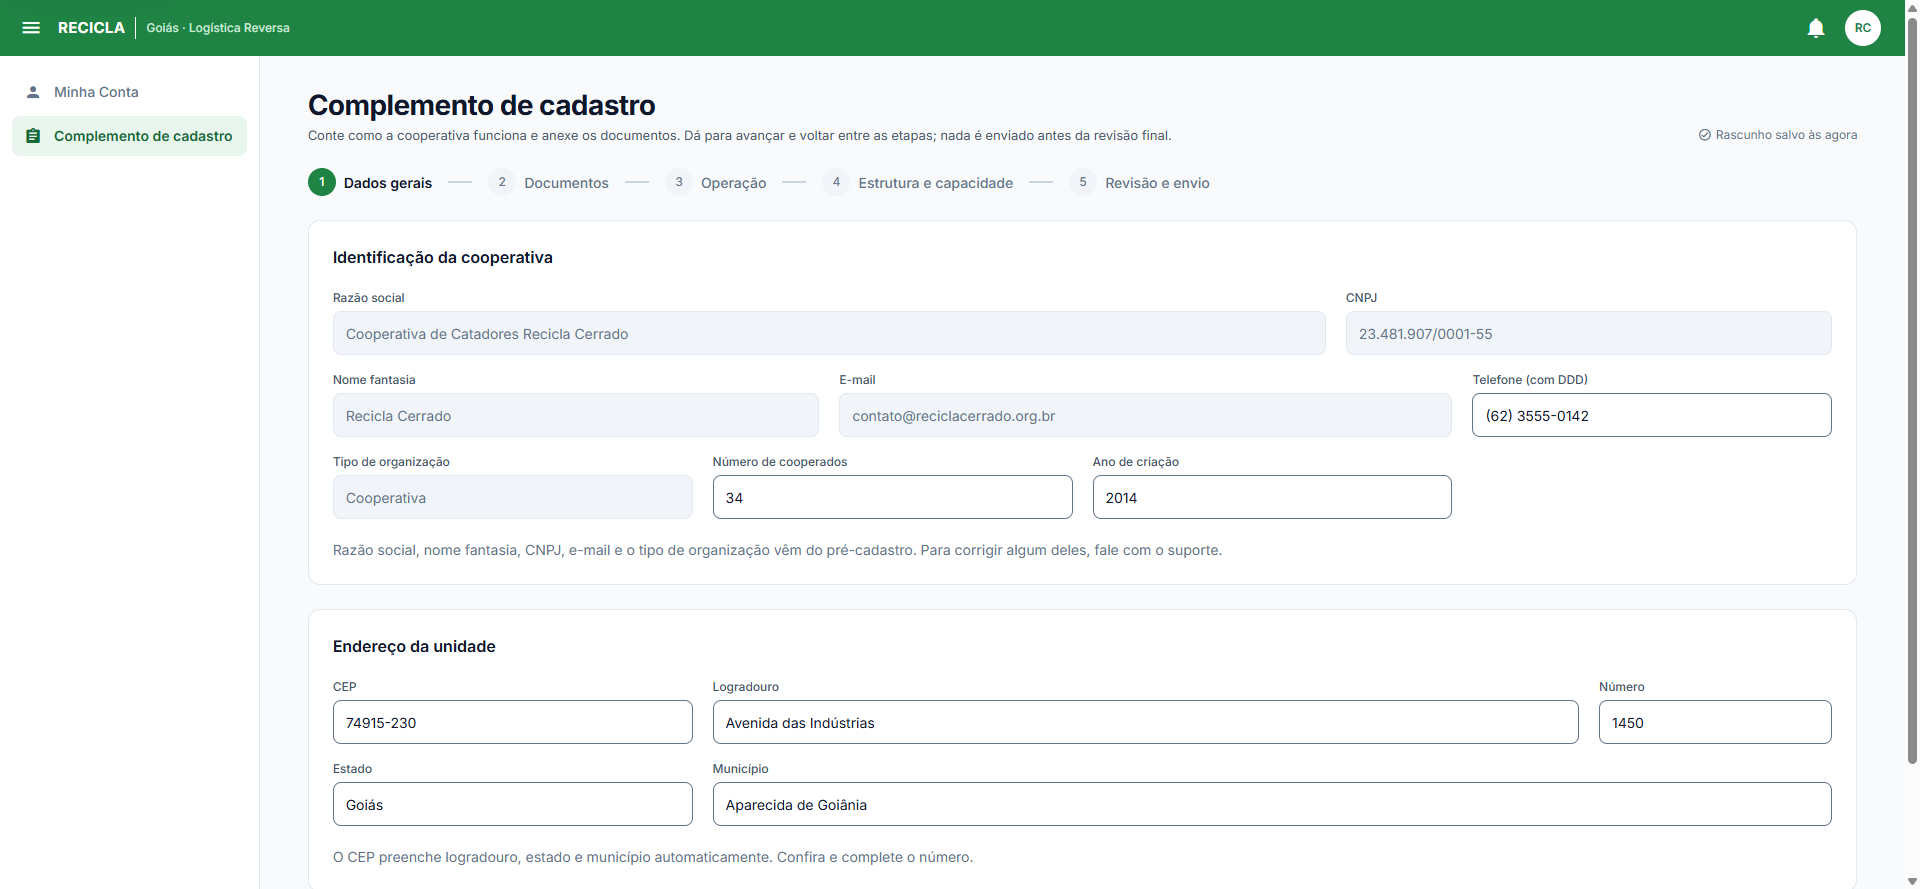
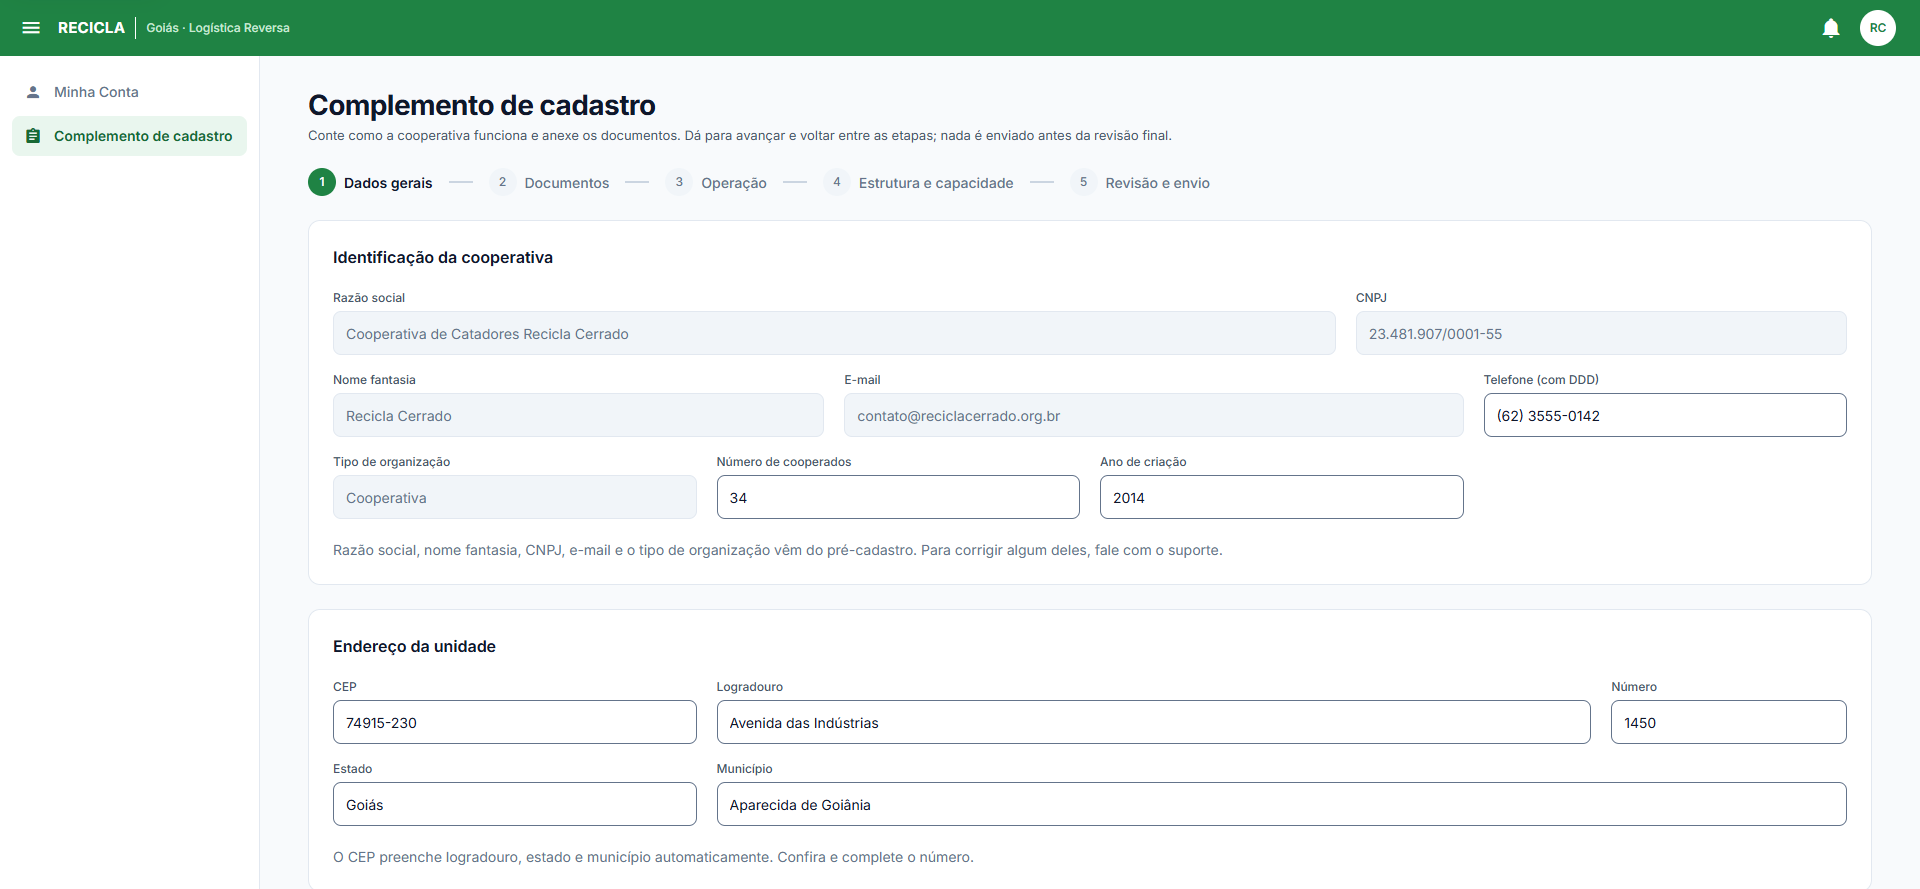
fix(operador): remove o rascunho provisório e foca o roteiro no fluxo
Decisão do Bruno em 31/08: a proposta não tem salvamento provisório.

- Store: só o envio é persistido (a conta "em análise" sobrevive à recarga;
  o preenchimento em andamento não). Sai o selo "Rascunho salvo às HH:MM".
- Roteiro reescrito focado no fluxo proposto: saem os testes de menu e de
  rascunho; ficam etapas, condicionais, revisão, envio e estado da conta.
- Slide do fluxograma e e-mail de ativação sem menção a salvar/retomar
  (Figma ajustado e PNG reexportado).
- Prints das etapas recapturados sem o selo de rascunho.

diff --git a/public/roteiro-complemento.html b/public/roteiro-complemento.html
@@ -64,7 +64,7 @@
 <header class="topo"><div class="mx">
   <div class="eyebrow">Recicla Goiás · Operador Logístico · Setembro 2026</div>
   <h1>Roteiro de testes: complemento de cadastro</h1>
-  <p>A segunda parte do registro do operador logístico: o pré-cadastro que já existe continua igual, e o complemento em cinco etapas nasce dentro do sistema. Siga com o protótipo aberto ao lado. A história completa da proposta está na <a href="https://reciclagoias.vercel.app/apresentacao-operador">apresentação</a>.</p>
+  <p>O fluxo proposto para o cadastro do operador logístico: o pré-cadastro que já existe continua igual, e o complemento em cinco etapas nasce dentro do sistema. Este roteiro cobre só o fluxo novo. A história completa está na <a href="https://reciclagoias.vercel.app/apresentacao-operador">apresentação</a>.</p>
 </div></header>
 <main>
 
@@ -79,38 +79,18 @@
     <b>Preparação</b>
     <ul>
       <li>Abra <a href="https://reciclagoias.vercel.app/entrar" target="_blank" rel="noopener">reciclagoias.vercel.app/entrar</a> e escolha <b>Operador Logístico</b>. Não há senha: é o login de navegação do protótipo.</li>
-      <li>O protótipo simula a conta <b>recém-ativada pelo e-mail</b>: ela nasce no estado "em complementação", direto no formulário.</li>
+      <li>O protótipo simula a conta <b>recém-ativada pelo e-mail</b>: ela cai direto no complemento de cadastro, no meio do preenchimento.</li>
       <li>Todos os dados são de demonstração e o anexo é <b>simulado</b>: o clique na área de anexo adiciona um arquivo de exemplo.</li>
-      <li>O rascunho vive na aba: <kbd>F5</kbd> mantém tudo, fechar a aba zera. Para recomeçar no meio do teste, use uma aba anônima ou termine o envio e clique em <b>Reiniciar demonstração</b> no final.</li>
+      <li>Para recomeçar do zero, termine o envio e clique em <b>Reiniciar demonstração</b> na última tela.</li>
     </ul>
   </div>
-  <div class="fala">O que está sendo testado é <b>comportamento e regra</b>, não dado: o que fica travado, o que abre e fecha condicionado às respostas, o que o rascunho segura e o que a revisão conta.</div>
+  <div class="fala">O que está sendo testado é o <b>fluxo proposto</b>: o que fica travado, o que abre e fecha condicionado às respostas, o que a revisão conta e como o envio muda o estado da conta.</div>
 </div>
 
 <div class="bloco">
-  <h2><span class="num">1</span>A chegada</h2>
+  <h2><span class="num">1</span>Etapa 1 · Dados gerais</h2>
   <div class="teste">
-    <h3><input type="checkbox"> 1.1 · A conta em complementação</h3>
-    <ul class="passos"><li>Observe a tela que abre depois do login.</li></ul>
-    <div class="esper"><b>Esperado</b>
-      <label><input type="checkbox"> O menu lateral tem só <b>Minha Conta</b> e <b>Complemento de cadastro</b> (ativo). Não existe Dashboard: ele só nasce com a aprovação</label>
-      <label><input type="checkbox"> O título é <b>Complemento de cadastro</b>, com o stepper de 5 etapas logo abaixo</label>
-      <label><input type="checkbox"> O stepper é clicável: dá para visitar qualquer etapa e voltar</label>
-    </div>
-  </div>
-  <div class="teste">
-    <h3><input type="checkbox"> 1.2 · O rascunho</h3>
-    <ul class="passos"><li>Mude qualquer campo editável (o telefone, por exemplo).</li></ul>
-    <div class="esper"><b>Esperado</b>
-      <label><input type="checkbox"> No topo direito aparece <b>"Rascunho salvo às HH:MM"</b>, atualizando a cada mudança</label>
-    </div>
-  </div>
-</div>
-
-<div class="bloco">
-  <h2><span class="num">2</span>Etapa 1 · Dados gerais</h2>
-  <div class="teste">
-    <h3><input type="checkbox"> 2.1 · O que veio do pré-cadastro fica travado</h3>
+    <h3><input type="checkbox"> 1.1 · O que veio do pré-cadastro fica travado</h3>
     <ul class="passos"><li>Tente editar razão social, CNPJ, nome fantasia, e-mail e tipo de organização.</li></ul>
     <div class="esper"><b>Esperado</b>
       <label><input type="checkbox"> Os cinco campos têm fundo cinza e não aceitam edição</label>
@@ -119,7 +99,7 @@
     </div>
   </div>
   <div class="teste">
-    <h3><input type="checkbox"> 2.2 · O tipo de organização condiciona o formulário</h3>
+    <h3><input type="checkbox"> 1.2 · O tipo de organização condiciona o formulário</h3>
     <div class="esper"><b>Esperado</b>
       <label><input type="checkbox"> <b>Tipo de organização: Cooperativa</b> aparece travado, herdado do pré-cadastro</label>
       <label><input type="checkbox"> <b>Número de cooperados</b> existe porque é cooperativa; para uma empresa, o campo não existiria</label>
@@ -128,9 +108,9 @@
 </div>
 
 <div class="bloco">
-  <h2><span class="num">3</span>Etapa 2 · Documentos</h2>
+  <h2><span class="num">2</span>Etapa 2 · Documentos</h2>
   <div class="teste">
-    <h3><input type="checkbox"> 3.1 · Os três estados na mesma lista</h3>
+    <h3><input type="checkbox"> 2.1 · Os três estados na mesma lista</h3>
     <ul class="passos"><li>Percorra a lista de 11 documentos sem mexer em nada.</li></ul>
     <div class="esper"><b>Esperado</b>
       <label><input type="checkbox"> A maioria está <b>Sim + arquivo anexado</b>: clipe, nome do arquivo e a lixeira</label>
@@ -139,7 +119,7 @@
     </div>
   </div>
   <div class="teste">
-    <h3><input type="checkbox"> 3.2 · Anexar e remover</h3>
+    <h3><input type="checkbox"> 2.2 · Anexar e remover</h3>
     <ul class="passos">
       <li>Clique na área de anexo da ata.</li>
       <li>Depois remova o arquivo pela lixeira.</li>
@@ -151,7 +131,7 @@
     </div>
   </div>
   <div class="teste">
-    <h3><input type="checkbox"> 3.3 · A regra do Não</h3>
+    <h3><input type="checkbox"> 2.3 · A regra do Não</h3>
     <ul class="passos"><li>Num item com arquivo anexado, marque <b>Não</b> e depois volte para <b>Sim</b>.</li></ul>
     <div class="esper"><b>Esperado</b>
       <label><input type="checkbox"> Com Não, o arquivo some e entra o aviso de pendência</label>
@@ -162,9 +142,9 @@
 </div>
 
 <div class="bloco">
-  <h2><span class="num">4</span>Etapa 3 · Operação</h2>
+  <h2><span class="num">3</span>Etapa 3 · Operação</h2>
   <div class="teste">
-    <h3><input type="checkbox"> 4.1 · "Outro" sempre abre a descrição</h3>
+    <h3><input type="checkbox"> 3.1 · "Outro" sempre abre a descrição</h3>
     <ul class="passos">
       <li>Em beneficiamentos, desmarque <b>Outro serviço</b>.</li>
       <li>Marque de novo.</li>
@@ -176,7 +156,7 @@
     </div>
   </div>
   <div class="teste">
-    <h3><input type="checkbox"> 4.2 · Sim e Não que mudam a tela</h3>
+    <h3><input type="checkbox"> 3.2 · Sim e Não que mudam a tela</h3>
     <ul class="passos"><li>Em "coleta ou recebe resíduos de outros municípios?", responda <b>Não</b> e depois volte para <b>Sim</b>.</li></ul>
     <div class="esper"><b>Esperado</b>
       <label><input type="checkbox"> Com Não, o campo "Quais municípios?" some; com Sim, volta preenchido</label>
@@ -185,9 +165,9 @@
 </div>
 
 <div class="bloco">
-  <h2><span class="num">5</span>Etapa 4 · Estrutura e capacidade</h2>
+  <h2><span class="num">4</span>Etapa 4 · Estrutura e capacidade</h2>
   <div class="teste">
-    <h3><input type="checkbox"> 5.1 · O bloco do vidro</h3>
+    <h3><input type="checkbox"> 4.1 · O bloco do vidro</h3>
     <ul class="passos"><li>Em "beneficiamento do vidro", responda <b>Não</b> e depois volte para <b>Sim</b>.</li></ul>
     <div class="esper"><b>Esperado</b>
       <label><input type="checkbox"> Com Não, destinação e capacidade do vidro somem: pergunta que não se aplica não aparece</label>
@@ -197,21 +177,9 @@
 </div>
 
 <div class="bloco">
-  <h2><span class="num">6</span>O rascunho aguenta recarga</h2>
+  <h2><span class="num">5</span>Etapa 5 · Revisão e envio</h2>
   <div class="teste">
-    <h3><input type="checkbox"> 6.1 · F5 no meio do caminho</h3>
-    <ul class="passos"><li>No meio da etapa 3 ou 4, com mudanças feitas, pressione <kbd>F5</kbd>.</li></ul>
-    <div class="esper"><b>Esperado</b>
-      <label><input type="checkbox"> A página volta <b>na mesma etapa</b>, com tudo o que você mudou preservado</label>
-    </div>
-  </div>
-  <div class="fala">No sistema real o rascunho é por conta, no servidor: a cooperativa pode parar para caçar um documento e continuar outro dia, de outro computador. No protótipo ele vive na aba.</div>
-</div>
-
-<div class="bloco">
-  <h2><span class="num">7</span>Etapa 5 · Revisão e envio</h2>
-  <div class="teste">
-    <h3><input type="checkbox"> 7.1 · O resumo é calculado, não decorado</h3>
+    <h3><input type="checkbox"> 5.1 · O resumo é calculado, não decorado</h3>
     <ul class="passos"><li>Compare a linha de Documentos com o que você deixou na etapa 2.</li></ul>
     <div class="esper"><b>Esperado</b>
       <label><input type="checkbox"> A contagem de anexados bate com o estado real, e cada pendência é <b>nomeada</b></label>
@@ -220,7 +188,7 @@
     </div>
   </div>
   <div class="teste">
-    <h3><input type="checkbox"> 7.2 · A declaração trava o envio</h3>
+    <h3><input type="checkbox"> 5.2 · A declaração trava o envio</h3>
     <ul class="passos"><li>Observe o botão <b>Enviar cadastro</b>, marque a declaração e observe de novo.</li></ul>
     <div class="esper"><b>Esperado</b>
       <label><input type="checkbox"> Sem a declaração, o botão fica desabilitado</label>
@@ -231,24 +199,24 @@
 </div>
 
 <div class="bloco">
-  <h2><span class="num">8</span>Envio, análise e leitura</h2>
+  <h2><span class="num">6</span>Envio e análise</h2>
   <div class="teste">
-    <h3><input type="checkbox"> 8.1 · O envio</h3>
+    <h3><input type="checkbox"> 6.1 · O envio</h3>
     <ul class="passos"><li>Clique em <b>Enviar cadastro</b>.</li></ul>
     <div class="esper"><b>Esperado</b>
       <label><input type="checkbox"> Confirmação com protocolo e a data e hora reais do envio</label>
     </div>
   </div>
   <div class="teste">
-    <h3><input type="checkbox"> 8.2 · O lobby de análise</h3>
+    <h3><input type="checkbox"> 6.2 · A conta muda de estado</h3>
     <ul class="passos"><li>Clique em <b>Acompanhar análise</b> e depois pressione <kbd>F5</kbd>.</li></ul>
     <div class="esper"><b>Esperado</b>
       <label><input type="checkbox"> A tela "Cadastro em análise", com chip, protocolo e data</label>
-      <label><input type="checkbox"> Depois do F5, o lobby continua: a conta ficou "em análise", não volta ao formulário</label>
+      <label><input type="checkbox"> Depois do F5, o lobby continua: a conta ficou "em análise" e não volta ao formulário</label>
     </div>
   </div>
   <div class="teste">
-    <h3><input type="checkbox"> 8.3 · A cópia de leitura</h3>
+    <h3><input type="checkbox"> 6.3 · A cópia de leitura</h3>
     <ul class="passos"><li>Clique em <b>Ver o que foi enviado</b>.</li></ul>
     <div class="esper"><b>Esperado</b>
       <label><input type="checkbox"> A revisão abre em modo leitura: sem Editar e sem a declaração</label>
@@ -256,7 +224,7 @@
     </div>
   </div>
   <div class="teste">
-    <h3><input type="checkbox"> 8.4 · Reiniciar a demonstração</h3>
+    <h3><input type="checkbox"> 6.4 · Reiniciar a demonstração</h3>
     <ul class="passos"><li>No lobby, clique em <b>Reiniciar demonstração</b>.</li></ul>
     <div class="esper"><b>Esperado</b>
       <label><input type="checkbox"> Tudo volta ao estado inicial, pronto para a próxima pessoa testar</label>
@@ -266,7 +234,7 @@
 </div>
 
 <div class="bloco">
-  <h2><span class="num">9</span>O que ainda não está aqui</h2>
+  <h2><span class="num">7</span>O que ainda não está aqui</h2>
   <div class="nota"><b>Fora desta fatia, de propósito</b>Máscaras e validações campo a campo, estados de erro no envio, versão mobile, upload real de arquivos e a integração com o pré-cadastro de produção. O desenho de referência completo está na seção "Setembro 2026 · Recicla Goiás · Complemento de Cadastro do Operador Logístico" do Figma.</div>
 </div>
 

diff --git a/src/stores/complemento.ts b/src/stores/complemento.ts
@@ -3,15 +3,14 @@
  *
  * As regras de UX moram aqui, não nos componentes (mesma filosofia da store
  * `explorador`): responder "Não" a um documento apaga o anexo, "outro" fora da
- * lista limpa a descrição, o envio só libera com a declaração aceita, e o
- * rascunho é persistido a cada mudança — é a história do "salvar rascunho"
- * proposta à SIC, demonstrada de verdade no protótipo.
+ * lista limpa a descrição e o envio só libera com a declaração aceita.
  *
- * Persistência em `sessionStorage` (mesma decisão da sessão: por aba, some ao
- * fechar). No sistema real o rascunho é por conta, no servidor.
+ * Persistência: só o ENVIO é gravado (`sessionStorage`, por aba) — a conta
+ * "em análise" sobrevive à recarga, o preenchimento em andamento não. Decisão
+ * de 31/08: a proposta não tem rascunho provisório.
  */
 import { defineStore } from 'pinia';
-import { computed, reactive, ref, watch } from 'vue';
+import { computed, reactive, ref } from 'vue';
 
 import { DOCUMENTOS_EXIGIDOS, ETAPAS, PROTOCOLO_DEMO } from '@/data/mocks/operador';
 
@@ -121,7 +120,9 @@ function lerRascunho(): RascunhoSalvo | null {
   try {
     const bruto = sessionStorage.getItem(CHAVE_STORAGE);
     if (!bruto) return null;
-    return JSON.parse(bruto) as RascunhoSalvo;
+    const pacote = JSON.parse(bruto) as RascunhoSalvo;
+    // Só o envio é restaurado; preenchimento em andamento não persiste.
+    return pacote.fase === 'enviado' ? pacote : null;
   } catch {
     return null;
   }
@@ -134,26 +135,16 @@ export const useComplementoStore = defineStore('complemento', () => {
   const fase = ref<'preenchendo' | 'enviado'>(salvo?.fase ?? 'preenchendo');
   const formulario = reactive<FormularioComplemento>(salvo?.formulario ?? formularioPadrao());
   const dataEnvio = ref<string | null>(salvo?.dataEnvio ?? null);
-  /** Horário do último rascunho gravado — vira o selo "Rascunho salvo às HH:MM". */
-  const rascunhoSalvoEm = ref<string | null>(salvo ? 'agora' : null);
 
-  watch(
-    [formulario, etapa, fase, dataEnvio],
-    () => {
-      const pacote: RascunhoSalvo = {
-        etapa: etapa.value,
-        fase: fase.value,
-        formulario,
-        dataEnvio: dataEnvio.value,
-      };
-      sessionStorage.setItem(CHAVE_STORAGE, JSON.stringify(pacote));
-      rascunhoSalvoEm.value = new Date().toLocaleTimeString('pt-BR', {
-        hour: '2-digit',
-        minute: '2-digit',
-      });
-    },
-    { deep: true },
-  );
+  function persistirEnvio() {
+    const pacote: RascunhoSalvo = {
+      etapa: etapa.value,
+      fase: fase.value,
+      formulario,
+      dataEnvio: dataEnvio.value,
+    };
+    sessionStorage.setItem(CHAVE_STORAGE, JSON.stringify(pacote));
+  }
 
   // ---- documentos ----
   const totalDocumentos = DOCUMENTOS_EXIGIDOS.length;
@@ -228,6 +219,7 @@ export const useComplementoStore = defineStore('complemento', () => {
     dataEnvio.value = `${agora.toLocaleDateString('pt-BR')}, às ${agora
       .toLocaleTimeString('pt-BR', { hour: '2-digit', minute: '2-digit' })
       .replace(':', 'h')}`;
+    persistirEnvio();
   }
 
   /** Ferramenta de protótipo: volta ao estado de demonstração inicial. */
@@ -237,14 +229,12 @@ export const useComplementoStore = defineStore('complemento', () => {
     etapa.value = 1;
     fase.value = 'preenchendo';
     dataEnvio.value = null;
-    rascunhoSalvoEm.value = null;
   }
 
   return {
     etapa,
     fase,
     formulario,
-    rascunhoSalvoEm,
     totalDocumentos,
     documentosAnexados,
     documentosSemPossuir,

diff --git a/src/pages/OperadorComplementoPage.vue b/src/pages/OperadorComplementoPage.vue
@@ -95,10 +95,6 @@ function reiniciar() {
             as etapas; nada é enviado antes da revisão final.
           </p>
         </div>
-        <p v-if="complemento.rascunhoSalvoEm" class="ox-pagina__rascunho" role="status">
-          <v-icon icon="mdi-check-circle-outline" size="14" aria-hidden="true" />
-          Rascunho salvo às {{ complemento.rascunhoSalvoEm }}
-        </p>
       </header>
 
       <ComplementoStepper :atual="complemento.etapa" @ir="complemento.irPara" />
@@ -157,16 +153,6 @@ function reiniciar() {
   font-size: 13px;
   line-height: 18px;
   color: var(--rg-color-text-secondary);
-}
-
-.ox-pagina__rascunho {
-  display: flex;
-  align-items: center;
-  gap: var(--rg-space-1);
-  margin: 0;
-  font-size: var(--rg-font-size-xs);
-  color: var(--rg-color-text-muted);
-  white-space: nowrap;
 }
 
 .ox-pagina__acoes {

diff --git a/src/components/presentation/slides/FluxoSlide.vue b/src/components/presentation/slides/FluxoSlide.vue
@@ -40,7 +40,7 @@ const NOS: No[] = [
   {
     numero: '4',
     titulo: 'Complemento em 5 etapas',
-    desc: 'Dados, documentos, operação, estrutura e revisão, com rascunho salvo por etapa.',
+    desc: 'Dados, documentos, operação, estrutura e revisão. Um assunto por etapa.',
     selo: 'novo',
     icon: '<rect width="8" height="4" x="8" y="2" rx="1"/><path d="M16 4h2a2 2 0 0 1 2 2v14a2 2 0 0 1-2 2H6a2 2 0 0 1-2-2V6a2 2 0 0 1 2-2h2"/><path d="m9 14 2 2 4-4"/>',
   },
